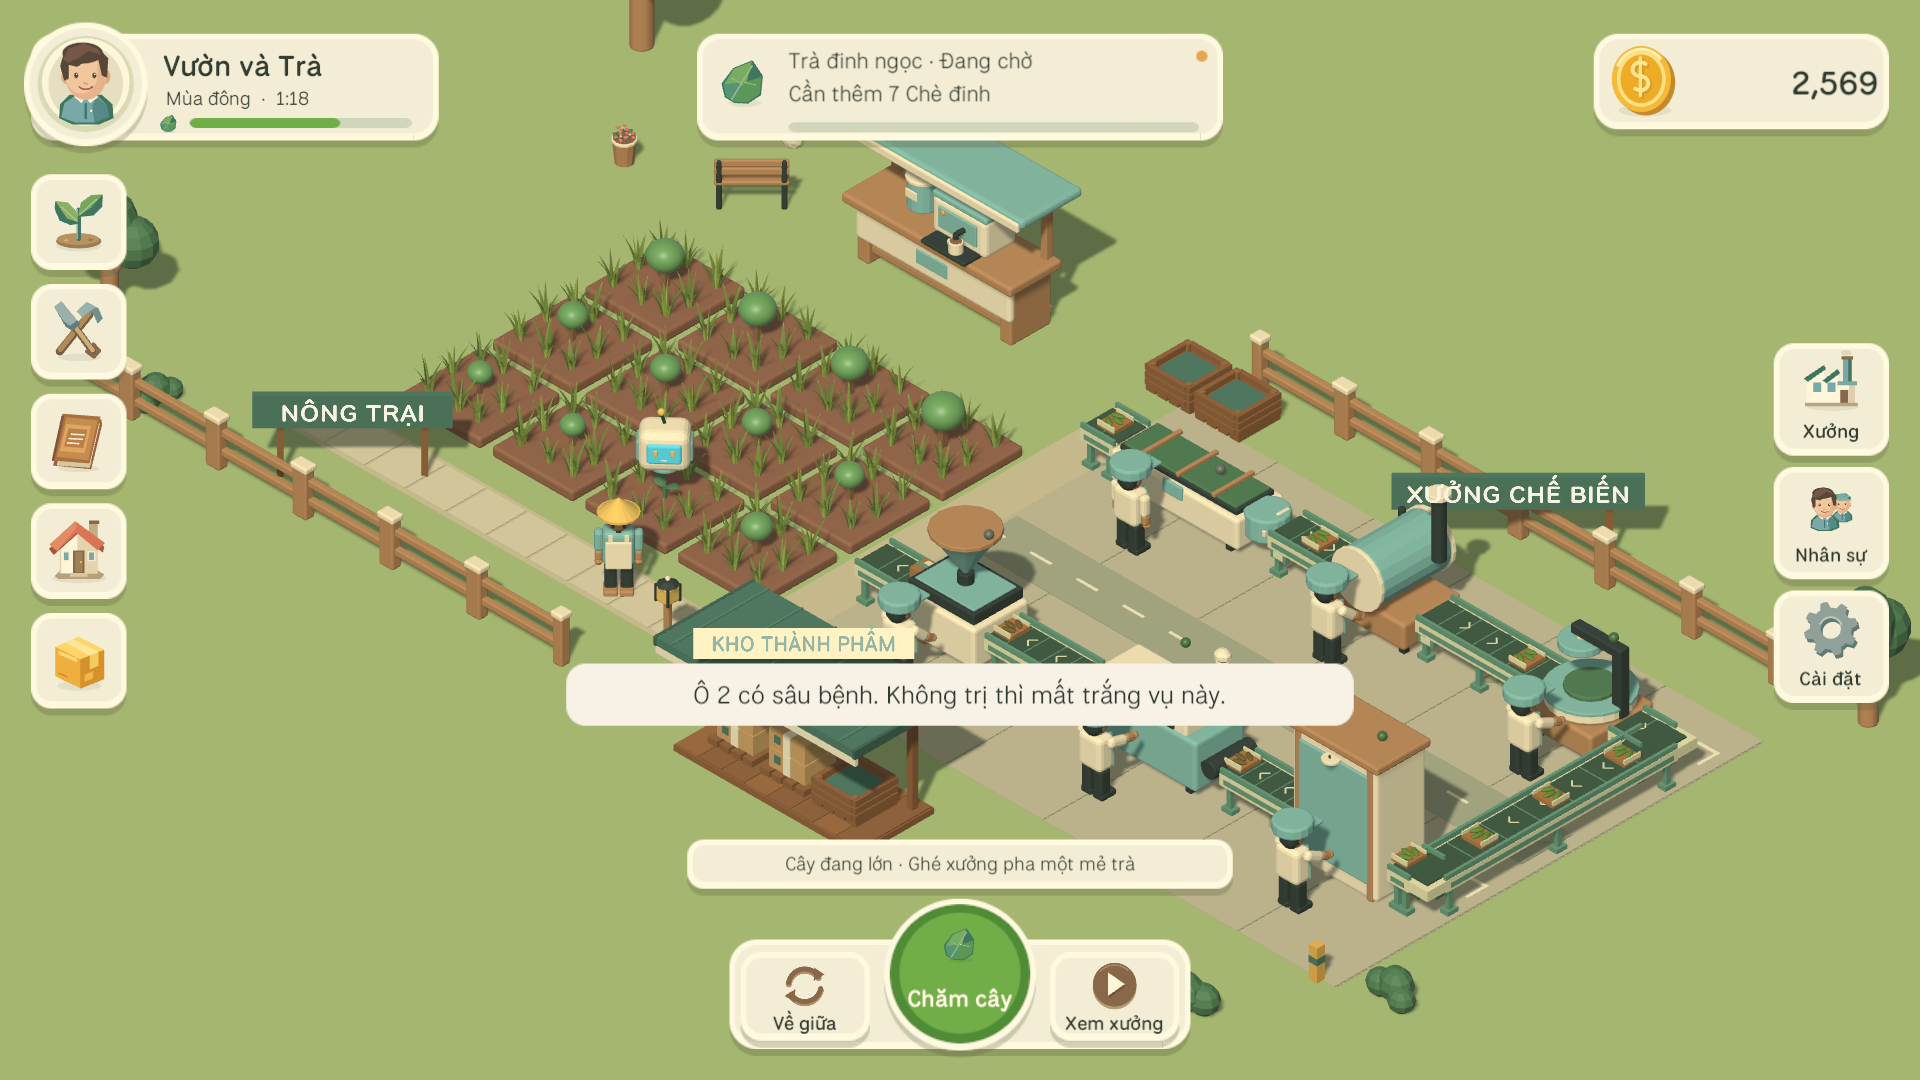
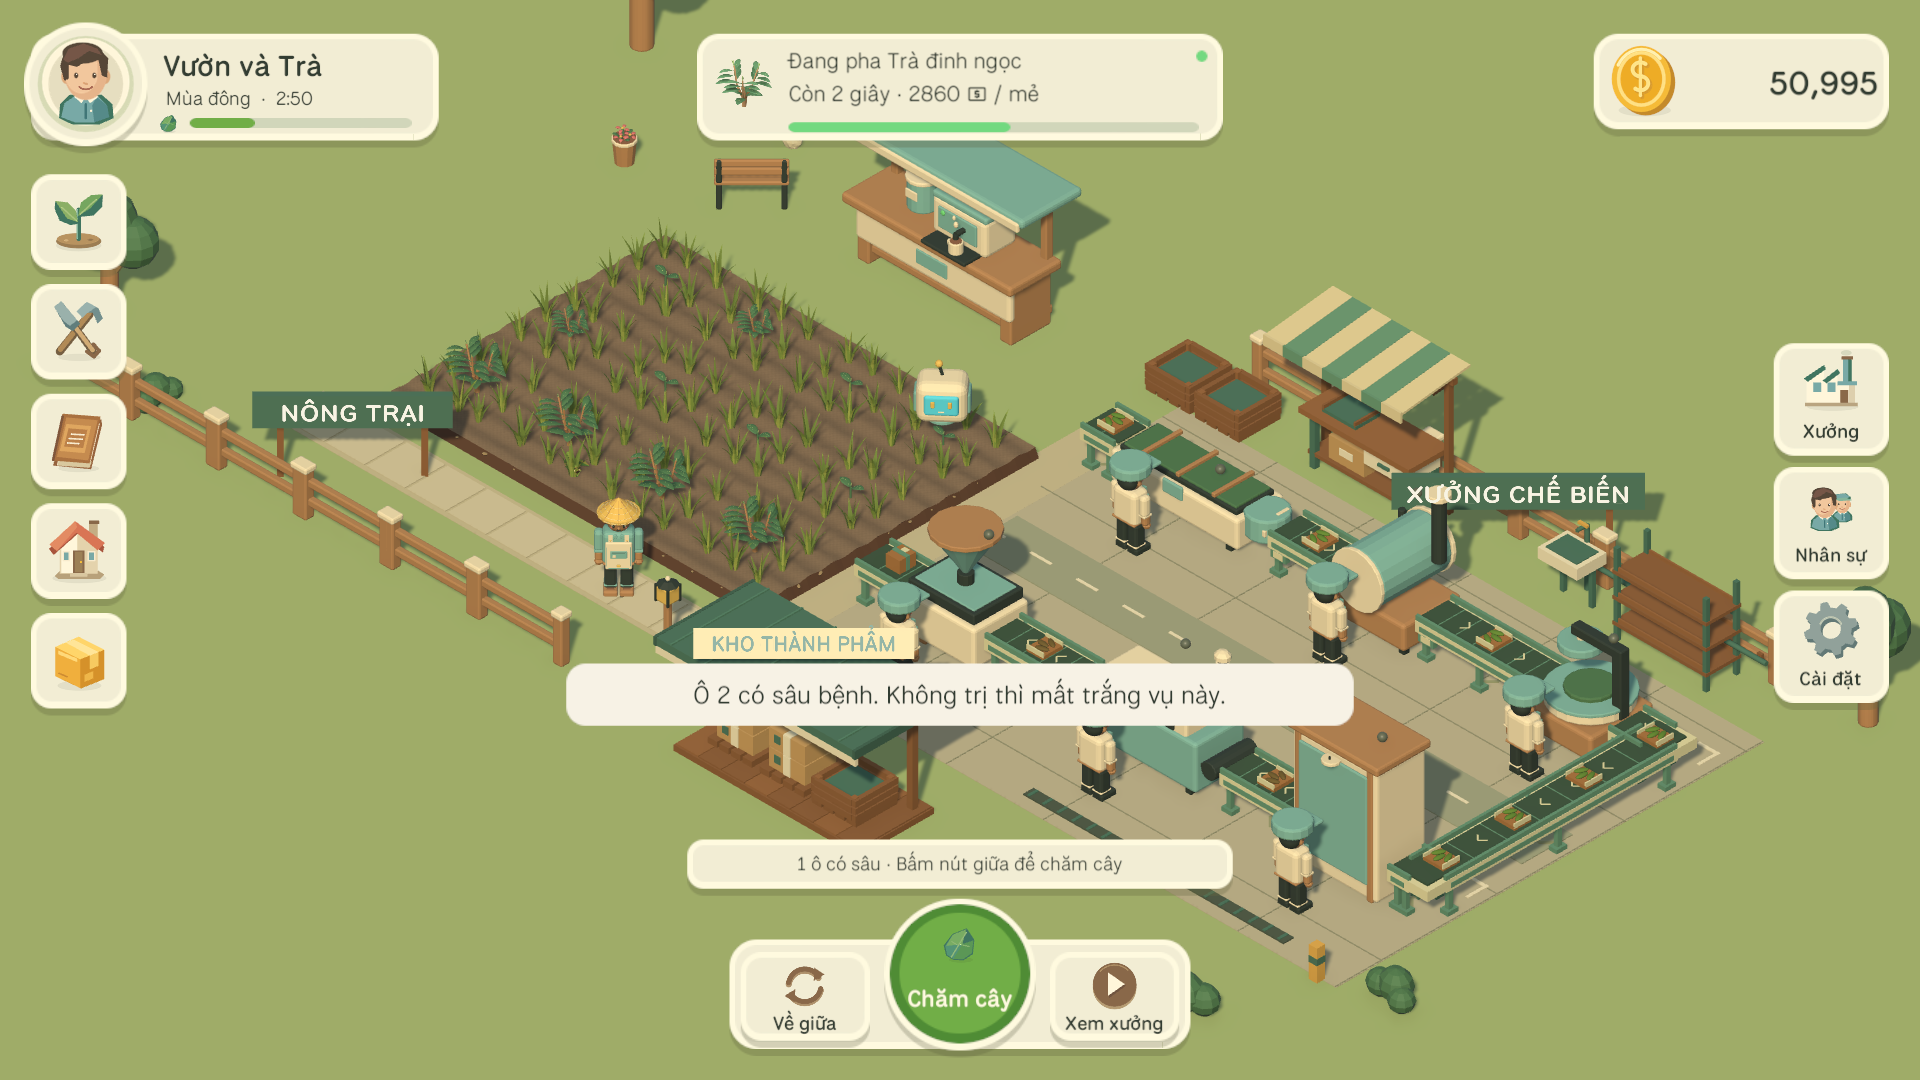
Chụp lại ảnh trang giới thiệu bằng bản art mới
Sáu ảnh hero cũ chụp hồi vườn còn là mười hai ô đất vuông. Chụp lại hết
từ bản build hiện tại ở 1920 × 1080: nương chè theo luống, thợ đứng bên
dây chuyền, robot đi thu. Thêm một ảnh cận nương chè cho mục bốn phân
hạng thu hái, và ảnh mở màn giờ là một phân cảnh thật chứ không phải
khung hình vườn mới.

Ảnh chụp qua bản HudReview (product name riêng) nên save của người chơi
không bị bộ ảnh này ghi đè.

Số test lên 207: hai bài art mới kiểm mép luống và model của mọi cây
gieo được.

diff --git a/README.md b/README.md
@@ -80,6 +80,8 @@ Chè vào game thành bốn loại cây riêng trên cùng một gốc:
 | 1 tôm 1 lá (nõn tôm) | 11 | 800 xu |
 | 1 tôm (đinh trà) | 4 | 2.200 xu |
 
+![Luống chè trên nương](VuonNho/Docs/screenshots/hero-nuong-che.png)
+
 Nhân lại thì **doanh thu một vụ của bốn phân hạng gần bằng nhau**. Cái khác là **số lượng**: búp xô
 cho gấp mười lăm lần số hàng phải chạy qua dây chuyền để kiếm cùng số tiền. Dây chuyền đang là giới
 hạn thì hái non hơn là thắng; dây chuyền còn rộng thì hái xô lại nhanh hơn.
@@ -141,8 +143,9 @@ HUD là mesh vector vẽ trong `FarmHudIcon.cs` — không cần file ảnh nào
 "C:\Program Files\Unity\Hub\Editor\6000.6.0f1\Editor\Unity.exe" -batchmode -projectPath VuonNho -runTests -testPlatform EditMode -testResults results.xml -logFile test.log
 ```
 
-**205 test EditMode** phủ tính nhất quán thời gian, biên timer, bù offline, save và schema, cân
-bằng, và sáu mục của mô hình khởi nghiệp trà.
+**207 test EditMode** phủ tính nhất quán thời gian, biên timer, bù offline, save và schema, cân
+bằng, sáu mục của mô hình khởi nghiệp trà, và hai mục art: luống đất kề nhau phải khớp mép, và mọi
+cây gieo được phải có model chi tiết đã import.
 
 Phần giao diện chạy bằng bộ QA nằm trong chính bản build — **190 mục kiểm** ở cả 1366 × 768 và
 1920 × 1080: chơi từ vườn mới tới mở 12 ô, nạp lại save giữa chu kỳ, quét chữ tràn và click xuyên

diff --git a/VuonNho/README.md b/VuonNho/README.md
@@ -209,11 +209,13 @@ Bản build nằm ở `Build/VuonNho-playtest/` và `Build/VuonNho-dev/`.
 "C:\Program Files\Unity\Hub\Editor\6000.6.0f1\Editor\Unity.exe" -batchmode -projectPath "C:\Users\PC\Desktop\Game\VuonNho" -runTests -testPlatform EditMode -testResults results.xml -logFile test.log
 ```
 
-205 test EditMode. 149 bài phủ bảng "Kiểm thử logic bắt buộc" ở mục 10 của kế hoạch: tính nhất
+207 test EditMode. 149 bài phủ bảng "Kiểm thử logic bắt buộc" ở mục 10 của kế hoạch: tính nhất
 quán thời gian, biên timer, trước/sau robot, cap offline 4 giờ, đồng thời, đổi cây/công thức, nâng
 tốc độ giữa chu kỳ, kho, giao dịch, resume lặp, save/backup/schema, chỉnh đồng hồ, balance khác và
 múi giờ. 56 bài còn lại phủ sáu mục của bản mô phỏng khởi nghiệp trà — xem
-[Docs/Mo-phong-khoi-nghiep-tra.md](Docs/Mo-phong-khoi-nghiep-tra.md).
+[Docs/Mo-phong-khoi-nghiep-tra.md](Docs/Mo-phong-khoi-nghiep-tra.md). Hai bài mới nhất nằm ở nhóm
+art: luống đất kề nhau phải khớp mép không hở và không gãy sáng, và mọi cây gieo được phải có model
+chi tiết đã import.
 
 Phần "kiểm thử build và giao diện" của mục 10 chạy bằng bộ QA nằm trong chính bản build:
 
